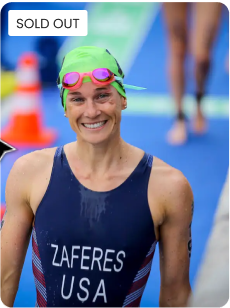
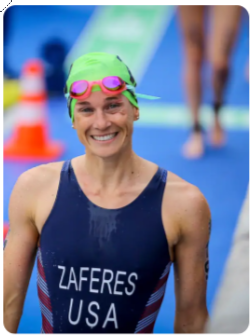
finished third react airbnb experience

diff --git a/third-react-airbnb-experience/src/components/Card.js b/third-react-airbnb-experience/src/components/Card.js
@@ -1,13 +1,22 @@
 import React from "react";
 
 export function Card(props) {
+    console.log(props);
+    let badgeText = '';
+    if (props.openSpots === 0) {
+        badgeText = "SOLD OUT";
+    } else if (props.location === 'Online') {
+        badgeText = "ONLINE";
+    }
+
     return (
         <div className="card">
-            <img src= {"../images/"+props.image} className="card-image"></img>
+            {badgeText && <div className="card--badge">{badgeText}</div>}
+            <img src= {"../images/"+props.coverImg} className="card-image" alt=""></img>
             <div className="card-rating">
-                <img src={"../images/star.png"} className="card-star"></img>
-                <span>{props.rating} </span>
-                <span className="gray"> ({props.reviewCount}) ·</span>
+                <img src={"../images/star.png"} className="card-star" alt=""></img>
+                <span>{props.stats.rating}</span>
+                <span className="gray"> ({props.stats.reviewCount}) ·</span>
                 <span className="gray"> {props.location}</span>
             </div>
             <div className="card-text">

diff --git a/third-react-airbnb-experience/src/index.css b/third-react-airbnb-experience/src/index.css
@@ -58,9 +58,10 @@ section {
 .card {
     width: 175px;
     font-size: 12px;
-    flex: 0 0 auto;         /* ADD */
-    display: flex;          /* ADD */
-    flex-direction: column; /* ADD */
+    flex: 0 0 auto;         
+    display: flex;          
+    flex-direction: column;
+    position: relative;
 }
 
 .card--image {
@@ -69,7 +70,6 @@ section {
     margin-bottom: 9px;
 }
 
-/* ADD */
 .card--title {
     overflow: hidden;
     text-overflow: ellipsis;
@@ -84,7 +84,16 @@ section {
     height: 14px;
 }
 
-/* ADD */
 .card--price {
     margin-top: auto;
+}
+
+.card--badge {
+    position: absolute;
+    top: 6px;
+    left: 6px;
+    background-color: white;
+    padding: 5px 7px;
+    border-radius: 2px;
+    font-weight: bold;
 }

diff --git a/third-react-airbnb-experience/src/App.js b/third-react-airbnb-experience/src/App.js
@@ -6,20 +6,17 @@ import { Card } from './components/Card';
 import cardsData from './data'
 
 function App() {
-    const cards = cardsData.map(card =>
+    const cards = cardsData.map(item =>
         <Card 
-            image = {card.coverImg}
-            rating = {card.stats.rating}
-            reviewCount = {card.stats.reviewCount}
-            location = {card.location}
-            title = {card.title}
-            price = {card.price}
+            key = {item.id}
+            // item = {item}
+            {...item}
         />
     );
-    // <Hero />
     return (
         <div>
             <Navbar />
+            <Hero />
             <section className="cards-list">
                 {cards}
             </section>

diff --git a/third-react-airbnb-experience/src/components/Hero.js b/third-react-airbnb-experience/src/components/Hero.js
@@ -4,7 +4,7 @@ export function Hero() {
     return(
         <div>
             <div className='stack-of-images-container'>
-                <img src="../images/airbnb-logo.png" className='stack-of-images'></img>
+                <img src="../images/stack_of_images.png" className='stack-of-images' alt=''></img>
             </div>
             <div className='text-container'>
                 <h1>

diff --git a/third-react-airbnb-experience/src/components/Nabvar.js b/third-react-airbnb-experience/src/components/Nabvar.js
@@ -3,7 +3,7 @@ import React from 'react';
 export function Navbar() {
     return (
         <nav>
-            <img src="../images/airbnb-logo.png" className='nav--logo'/>
+            <img src="../images/airbnb-logo.png" className='nav--logo' alt=''/>
         </nav>
     );
 }
